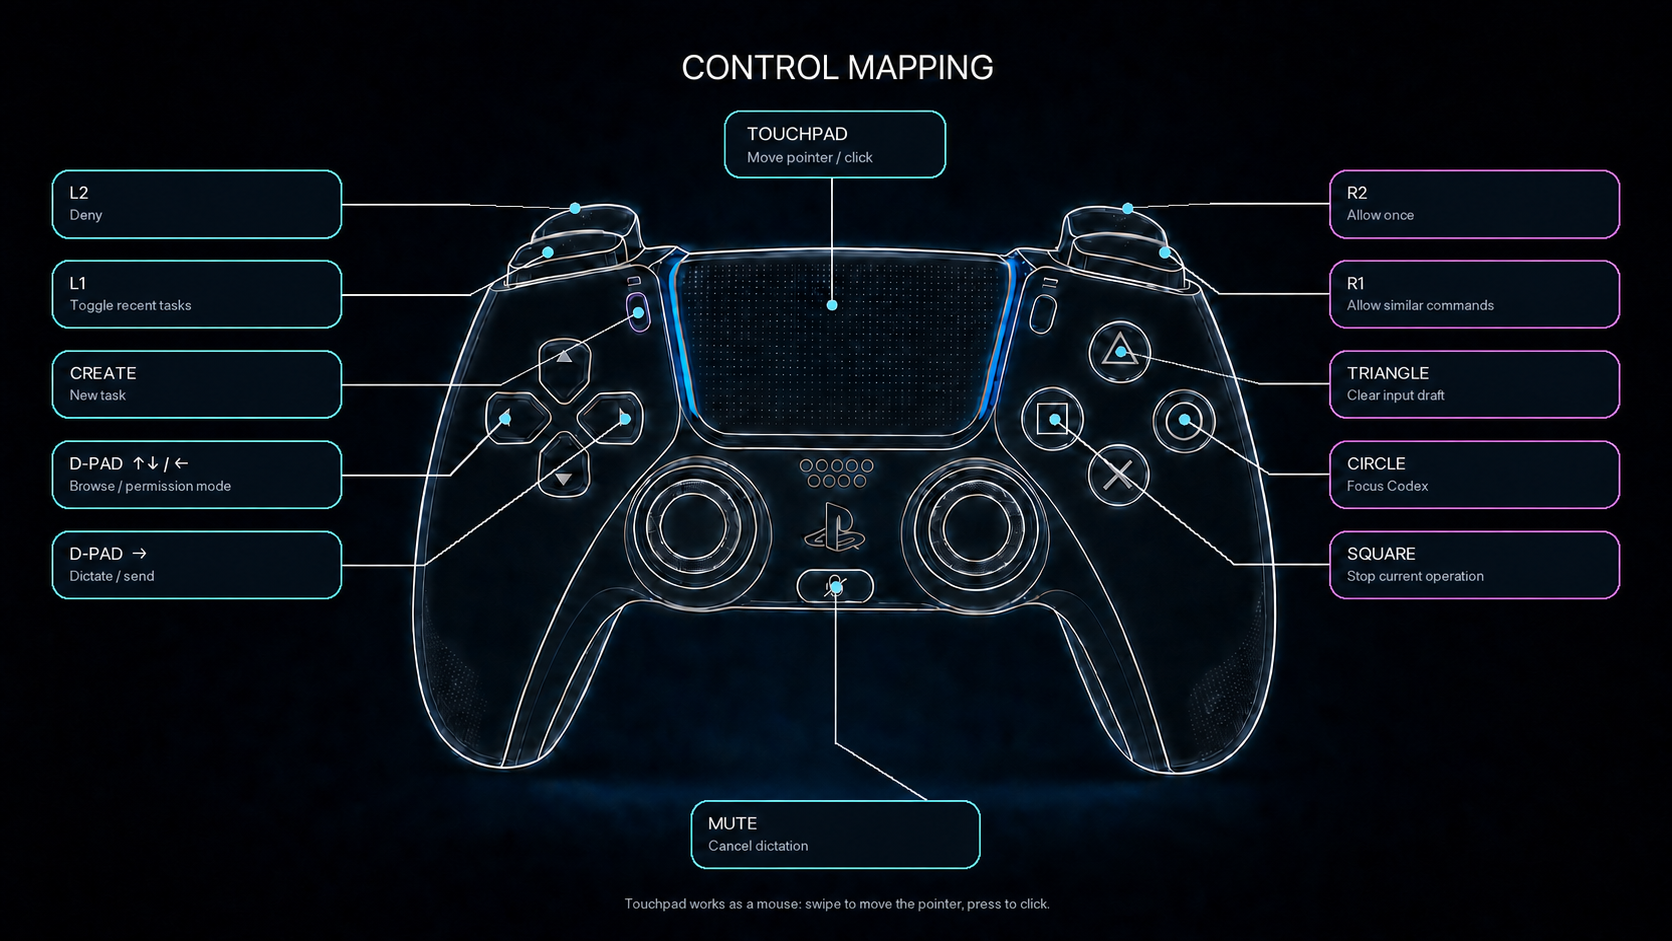
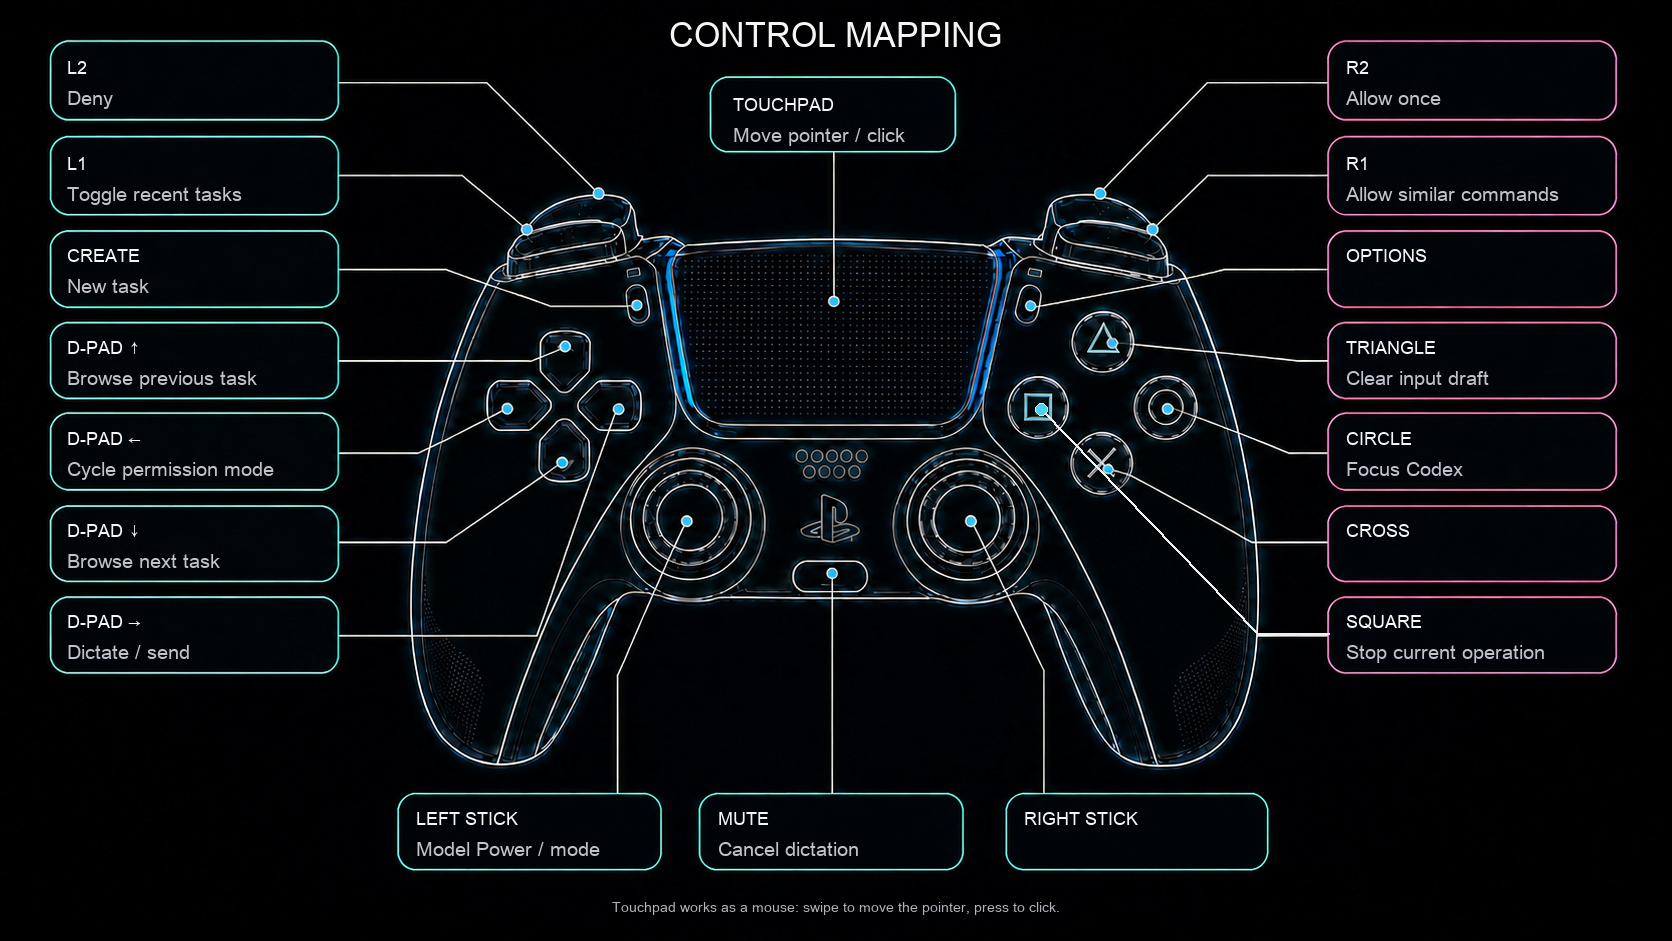
docs: make controller map reusable

diff --git a/tools/controller-map/render.py b/tools/controller-map/render.py
@@ -1,0 +1,164 @@
+#!/usr/bin/env python3
+
+from __future__ import annotations
+
+import json
+import sys
+from pathlib import Path
+
+try:
+    from PIL import Image, ImageDraw, ImageFont
+except ImportError:
+    sys.exit(
+        "controller-map: Pillow is required; install it with "
+        "`python3 -m pip install Pillow`"
+    )
+
+
+TOOL_DIR = Path(__file__).resolve().parent
+REPOSITORY_ROOT = TOOL_DIR.parent.parent
+BASE_PATH = TOOL_DIR / "dualsense-layout-base.png"
+DEFAULT_LABELS_PATH = TOOL_DIR / "labels.json"
+DEFAULT_OUTPUT_PATH = REPOSITORY_ROOT / "docs/assets/dualsense-codex-map.png"
+FONT_CANDIDATES = (
+    Path("/System/Library/Fonts/Supplemental/Arial Unicode.ttf"),
+    Path("/System/Library/Fonts/Helvetica.ttc"),
+)
+
+SLOTS = {
+    "left-1": (50, 40, 290, 79),
+    "left-2": (50, 136, 290, 78),
+    "left-3": (50, 228, 290, 78),
+    "left-4": (50, 320, 290, 78),
+    "left-5": (50, 411, 290, 78),
+    "left-6": (50, 503, 290, 77),
+    "left-7": (50, 594, 290, 77),
+    "top": (711, 77, 247, 75),
+    "right-1": (1329, 40, 289, 79),
+    "right-2": (1329, 136, 289, 78),
+    "right-3": (1329, 228, 289, 78),
+    "right-4": (1329, 320, 289, 78),
+    "right-5": (1329, 411, 289, 78),
+    "right-6": (1329, 503, 289, 77),
+    "right-7": (1329, 594, 289, 77),
+    "bottom-left": (399, 791, 264, 77),
+    "bottom-center": (701, 791, 265, 77),
+    "bottom-right": (1007, 791, 263, 77),
+}
+
+
+def repository_path(argument: str | None, default: Path) -> Path:
+    if argument is None:
+        return default
+    path = Path(argument)
+    return path if path.is_absolute() else REPOSITORY_ROOT / path
+
+
+def load_font(size: int) -> ImageFont.FreeTypeFont:
+    font_path = next((path for path in FONT_CANDIDATES if path.exists()), None)
+    if font_path is None:
+        sys.exit("controller-map: compatible macOS system font not found")
+    return ImageFont.truetype(str(font_path), size=size)
+
+
+def main() -> None:
+    labels_path = repository_path(
+        sys.argv[1] if len(sys.argv) > 1 else None,
+        DEFAULT_LABELS_PATH,
+    )
+    output_path = repository_path(
+        sys.argv[2] if len(sys.argv) > 2 else None,
+        DEFAULT_OUTPUT_PATH,
+    )
+
+    try:
+        labels = json.loads(labels_path.read_text())
+    except (OSError, json.JSONDecodeError) as error:
+        sys.exit(f"controller-map: could not read {labels_path}: {error}")
+
+    callouts = labels.get("callouts", [])
+    slot_names = [callout.get("slot") for callout in callouts]
+    unknown = sorted(set(slot_names) - set(SLOTS))
+    duplicates = sorted(
+        slot for slot in set(slot_names) if slot_names.count(slot) > 1
+    )
+    if unknown:
+        sys.exit(f"controller-map: unknown slot(s): {', '.join(unknown)}")
+    if duplicates:
+        sys.exit(f"controller-map: duplicate slot(s): {', '.join(duplicates)}")
+
+    try:
+        image = Image.open(BASE_PATH).convert("RGB")
+    except OSError as error:
+        sys.exit(f"controller-map: could not read {BASE_PATH}: {error}")
+
+    if image.size != (1672, 941):
+        sys.exit(
+            "controller-map: base image must be 1672x941, "
+            f"found {image.width}x{image.height}"
+        )
+
+    draw = ImageDraw.Draw(image)
+
+    # The generated base occasionally terminates this last leader at the shell.
+    # Redraw it deterministically so the bottom-right callout reaches Square.
+    draw.line(
+        [(1329, 634), (1258, 634), (1041, 409)],
+        fill=(238, 240, 241),
+        width=2,
+    )
+    draw.ellipse(
+        (1035, 403, 1047, 415),
+        fill=(73, 213, 238),
+        outline=(222, 251, 255),
+        width=1,
+    )
+
+    title_font = load_font(34)
+    callout_title_font = load_font(18)
+    description_font = load_font(20)
+    footer_font = load_font(14)
+
+    draw.text(
+        (image.width / 2, 10),
+        labels.get("title", ""),
+        fill=(245, 245, 245),
+        font=title_font,
+        anchor="ma",
+    )
+
+    for callout in callouts:
+        x, y, width, _ = SLOTS[callout["slot"]]
+        padding = 22 if callout["slot"] == "top" else 17
+        max_width = width - padding * 2
+        for value, font, text_y, color in (
+            (callout.get("title", ""), callout_title_font, y + 14, (245, 245, 245)),
+            (
+                callout.get("description", ""),
+                description_font,
+                y + 43,
+                (194, 194, 204),
+            ),
+        ):
+            if draw.textlength(value, font=font) > max_width:
+                sys.exit(
+                    f"controller-map: text is too wide for {callout['slot']}: "
+                    f"{value!r}"
+                )
+            draw.text((x + padding, text_y), value, fill=color, font=font)
+
+    draw.text(
+        (image.width / 2, 897),
+        labels.get("footer", ""),
+        fill=(179, 179, 187),
+        font=footer_font,
+        anchor="ma",
+    )
+
+    output_path.parent.mkdir(parents=True, exist_ok=True)
+    image.save(output_path, format="PNG", optimize=True)
+    print(f"Rendered {output_path}")
+
+
+if __name__ == "__main__":
+    main()

diff --git a/README.md b/README.md
@@ -35,6 +35,8 @@ Desktop on macOS. Other controllers and AI applications are not supported yet.
 
 ## Button map
 
+![DualSense to Codex control map](docs/assets/dualsense-codex-map.png)
+
 | Controller input | Current action |
 | --- | --- |
 | `Circle` | Bring the target application to the front and unlock the remaining controls |
@@ -191,6 +193,15 @@ git diff --check
 When adding or renaming an action, update the action type, config binding,
 daemon dispatcher, adapter, tests, this README, and the validation matrix
 together.
+
+The controller map is assembled locally from a reusable text-free layout with
+Python and [Pillow](https://python-pillow.github.io/). Edit
+[`tools/controller-map/labels.json`](tools/controller-map/labels.json), then
+regenerate the PNG without image generation:
+
+```sh
+npm run docs:controller-map
+```
 
 ### launchd package
 
